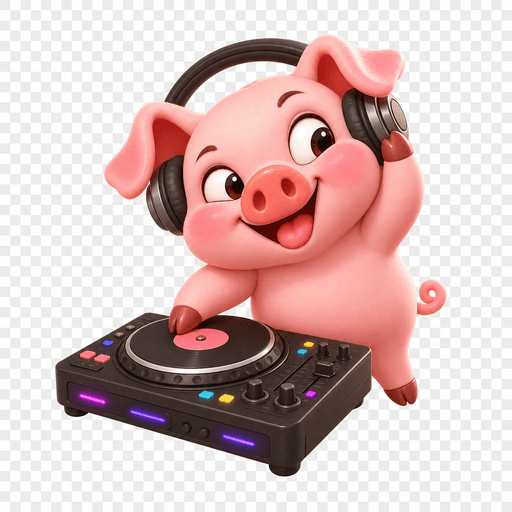
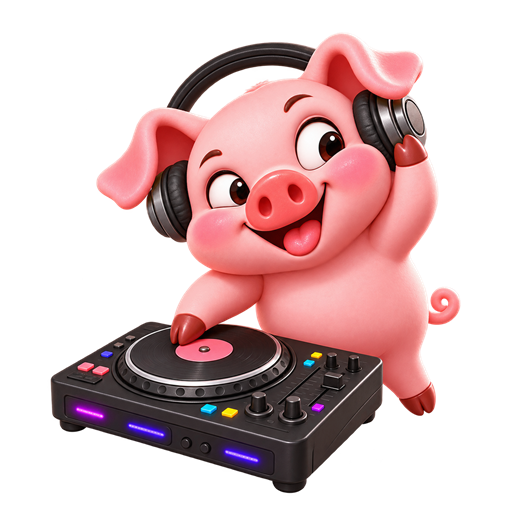
Fix bomb penalty and cut out pig sprites

Changed region(s): [[0.0938, 0.0625, 0.9062, 0.9688]]

diff --git a/public/index.html b/public/index.html
@@ -307,11 +307,13 @@ let previousRound = 0;
 let audioContext;
 let tickTimer;
 let countdownTimer;
+let penaltyTimer;
 let soundEnabled = localStorage.partySound !== 'off';
 let selectedStockSymbol;
 const pigAssets = ['pig-mascot.png', 'pig-peek.png', 'pig-run.png', 'pig-fireworks.png', 'pig-beer.png', 'pig-shot.png', 'pig-cheers.png', 'pig-pour.png', 'pig-tipsy.png', 'pig-dizzy.png', 'pig-moonwalk.png', 'pig-slide.png', 'pig-cartwheel.png', 'pig-disco.png', 'pig-selfie.png', 'pig-hide.png', 'pig-parachute.png', 'pig-superhero.png', 'pig-skates.png', 'pig-banana.png', 'pig-dj.png', 'pig-karaoke.png', 'pig-drum.png', 'pig-star.png', 'pig-bow.png', 'pig-sleep.png', 'pig-jump.png', 'pig-spy.png', 'pig-juggle.png', 'pig-bottle.png', 'pig-umbrella.png', 'pig-rocket.png', 'pig-magician.png', 'pig-ghost.png', 'pig-detective.png', 'pig-king.png', 'pig-cowboy.png', 'pig-weights.png', 'pig-yoga.png', 'pig-sneeze.png'];
+const pigAssetVersion = '?v=20260821-cutout';
 
-pigAssets.forEach(file => { const image = new Image(); image.src = `/assets/${file}`; });
+pigAssets.forEach(file => { const image = new Image(); image.src = `/assets/${file}${pigAssetVersion}`; });
 
 function unlockAudio() {
   if (!soundEnabled) return;
@@ -465,10 +467,12 @@ function render() {
       } else {
         const pair = ['split', 'merge'].includes(room.game.move);
         const pose = room.game.posesById[playerId] || room.game.pose;
-        panel.innerHTML = `<div class="gameStage"><p class="gameHint">돼지가 누굴 선택할까요?!</p><div class="mascotScene">${active ? `<img class="pig ${room.game.move}" style="--moveDuration:${room.game.duration}ms" src="/assets/${pose}" alt="장난꾸러기 돼지">${pair ? `<img class="pig ${room.game.move}" style="--moveDuration:${room.game.duration}ms" src="/assets/${pose}" alt="">` : ''}` : ''}</div>${active ? (room.game.move === 'fakeout' ? '<p class="gameHint">당첨…인 줄 알았지?!</p>' : '') : '<p class="gameHint">쉿! 다른 화면을 살펴보세요.</p>'}</div>`;
+        panel.innerHTML = `<div class="gameStage"><p class="gameHint">돼지가 누굴 선택할까요?!</p><div class="mascotScene">${active ? `<img class="pig ${room.game.move}" style="--moveDuration:${room.game.duration}ms" src="/assets/${pose}${pigAssetVersion}" alt="장난꾸러기 돼지">${pair ? `<img class="pig ${room.game.move}" style="--moveDuration:${room.game.duration}ms" src="/assets/${pose}${pigAssetVersion}" alt="">` : ''}` : ''}</div>${active ? (room.game.move === 'fakeout' ? '<p class="gameHint">당첨…인 줄 알았지?!</p>' : '') : '<p class="gameHint">쉿! 다른 화면을 살펴보세요.</p>'}</div>`;
       }
       addAbortControl(isHost);
     } else if (room.game.type === 'bomb') {
+      clearTimeout(penaltyTimer);
+      if (penalized) penaltyTimer = setTimeout(render, Math.max(0, me.penaltyUntil - Date.now()) + 50);
       const from = room.players.find(player => player.id === room.game.lastPass?.fromId)?.nickname;
       const to = room.players.find(player => player.id === room.game.lastPass?.toId)?.nickname;
       const passNotice = from && to ? `${escapeHtml(from)} → ${escapeHtml(to)}` : '폭탄이 출발했습니다!';

diff --git a/test/bomb-scale.test.js b/test/bomb-scale.test.js
@@ -22,6 +22,12 @@ test('15명부터 폭탄이 두 개로 늘어난다', async () => {
     const room = await playing;
     assert.equal(room.game.holderIds.length, 2);
     assert.equal(new Set(room.game.holderIds).size, 2);
+    const freeIndex = room.players.findIndex(player => !room.game.holderIds.includes(player.id));
+    const penalized = waitFor(players[freeIndex], state => state.players.find(player => player.id === `bomb-${freeIndex}`).penaltyUntil > Date.now());
+    await emit(players[freeIndex], 'game:mistake', {});
+    await penalized;
+    const cleared = await waitFor(players[freeIndex], state => state.players.find(player => player.id === `bomb-${freeIndex}`).penaltyUntil === 0);
+    assert.equal(cleared.players.find(player => player.id === `bomb-${freeIndex}`).penaltyUntil, 0);
     await emit(players[0], 'game:abort', {});
   } finally {
     players.forEach(socket => socket.disconnect());

diff --git a/server.js b/server.js
@@ -416,7 +416,10 @@ io.on('connection', socket => {
     if (!room || !player || room.status !== 'playing' || room.game?.type !== 'bomb' || room.game.holderIds.includes(player.id)) return done({error:'패널티를 적용할 수 없습니다.'});
     player.penaltyUntil = room.settings.stackPenalty ? Math.max(Date.now(), player.penaltyUntil || 0) + 1000 : Date.now() + 1000;
     emitRoom(room);
-    setTimeout(() => emitRoom(room), 1050).unref();
+    setTimeout(() => {
+      if (player.penaltyUntil <= Date.now()) player.penaltyUntil = 0;
+      emitRoom(room);
+    }, Math.max(0, player.penaltyUntil - Date.now()) + 50).unref();
     done({ok:true});
   });
 
